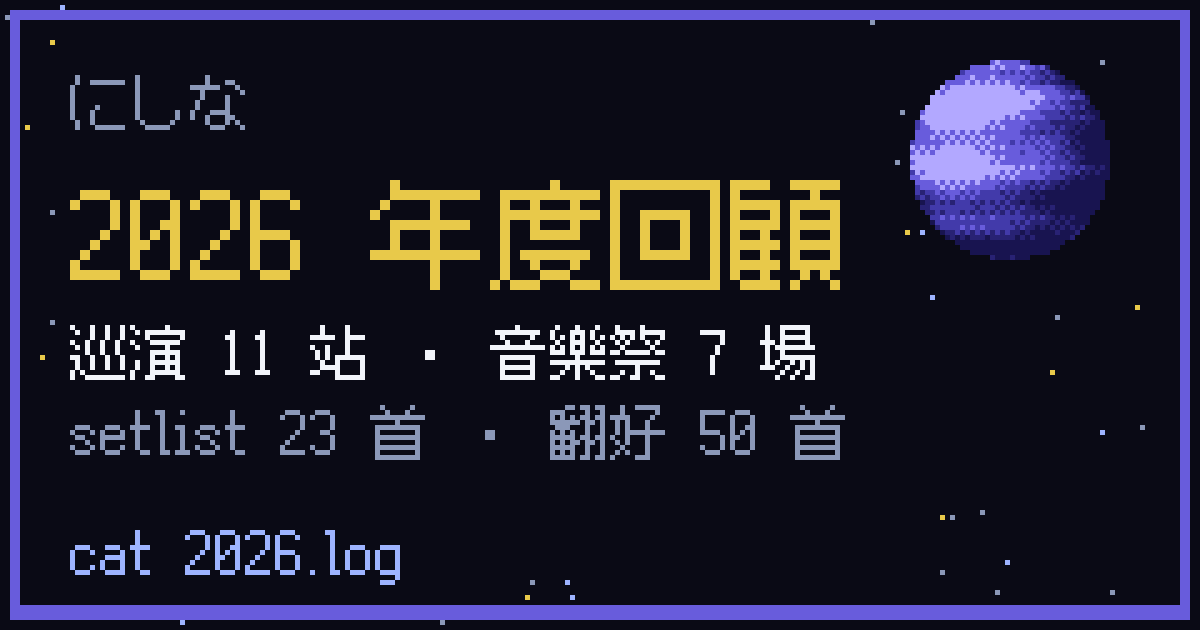
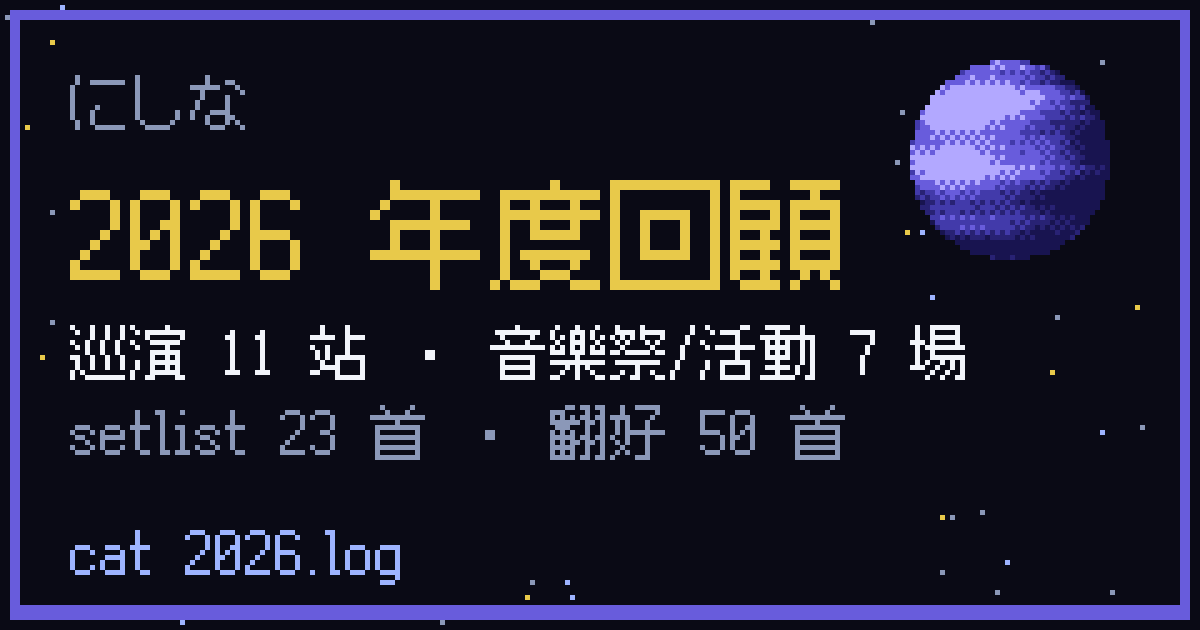
fix(year): 第一次唱只跟更早的巡演比、沒資料時不顯示空行、測試比對頁面數字
- 「第一次進巡演 setlist」原本跟今年以外的巡演比, 以後加了明年的 setlist 會讓今年的名單變少
- 同一年有兩次巡演也都算進去; 今年還沒 setlist、沒翻歌時不顯示空的開場 / 最拚月份
- 音樂祭那格也算單獨活動, 圖卡改寫「音樂祭/活動」
- year.spec.ts 直接從資料算站數、場數、翻好的歌, 跟頁面比

Changed region(s): [[0.555, 0.5127, 0.6783, 0.6032], [0.7092, 0.5127, 0.8017, 0.6032]]

diff --git a/tests/year.spec.ts b/tests/year.spec.ts
@@ -1,14 +1,24 @@
 import { test, expect } from '@playwright/test';
-import { existsSync } from 'node:fs';
+import { existsSync, readFileSync } from 'node:fs';
 
-// 年度回顧: 分享圖卡要指到真的存在的檔案, 數字卡片都要有東西
+// 年度回顧: 分享圖卡要指到真的存在的檔案; 頁面上的數字要跟資料 (也是 og-pages.mjs 畫圖卡用的同一份) 算出來的一樣
+const json = (p: string) => JSON.parse(readFileSync(p, 'utf-8'));
+const Y = '2026';
+const stops = json('live/data/tour_stops.json').tours.flatMap((t: any) => t.stops).filter((s: any) => s.date.startsWith(Y)).length;
+const fests = json('live/data/nishina_live_events.json').appearance.filter((a: any) => (a.event_date ?? '').startsWith(Y)).length;
+const translated = Object.values(json('src/data/translation_dates.json') as Record<string, any>)
+  .filter((d) => (d.translated ?? '').startsWith(Y)).length;
+
 test('年度回顧 2026: 分享圖卡與數字', async ({ page }) => {
-  await page.goto('/year/2026/');
+  await page.goto(`/year/${Y}/`);
   const og = await page.locator('meta[property="og:image"]').getAttribute('content');
-  expect(og).toContain('/og/year-2026.png');
-  expect(existsSync('public/og/year-2026.png')).toBe(true);
-  const cards = page.locator('.yr-card');
-  expect(await cards.count()).toBeGreaterThanOrEqual(8);
-  for (const n of await page.locator('.yr-n').allTextContents()) expect(n).toMatch(/^\d[\d,]*/);
+  expect(og).toContain(`/og/year-${Y}.png`);
+  expect(existsSync(`public/og/year-${Y}.png`)).toBe(true);
+  const nums = (await page.locator('.yr-n').allTextContents()).map((n) => parseInt(n.replace(/,/g, ''), 10));
+  expect(nums.length).toBeGreaterThanOrEqual(5);
+  expect(nums[0]).toBe(stops);
+  expect(nums[1]).toBe(fests);
+  expect(nums).toContain(translated);
   await expect(page.getByText('MOCK')).toHaveCount(0);
+  await expect(page.getByText('模型')).toHaveCount(0);
 });
